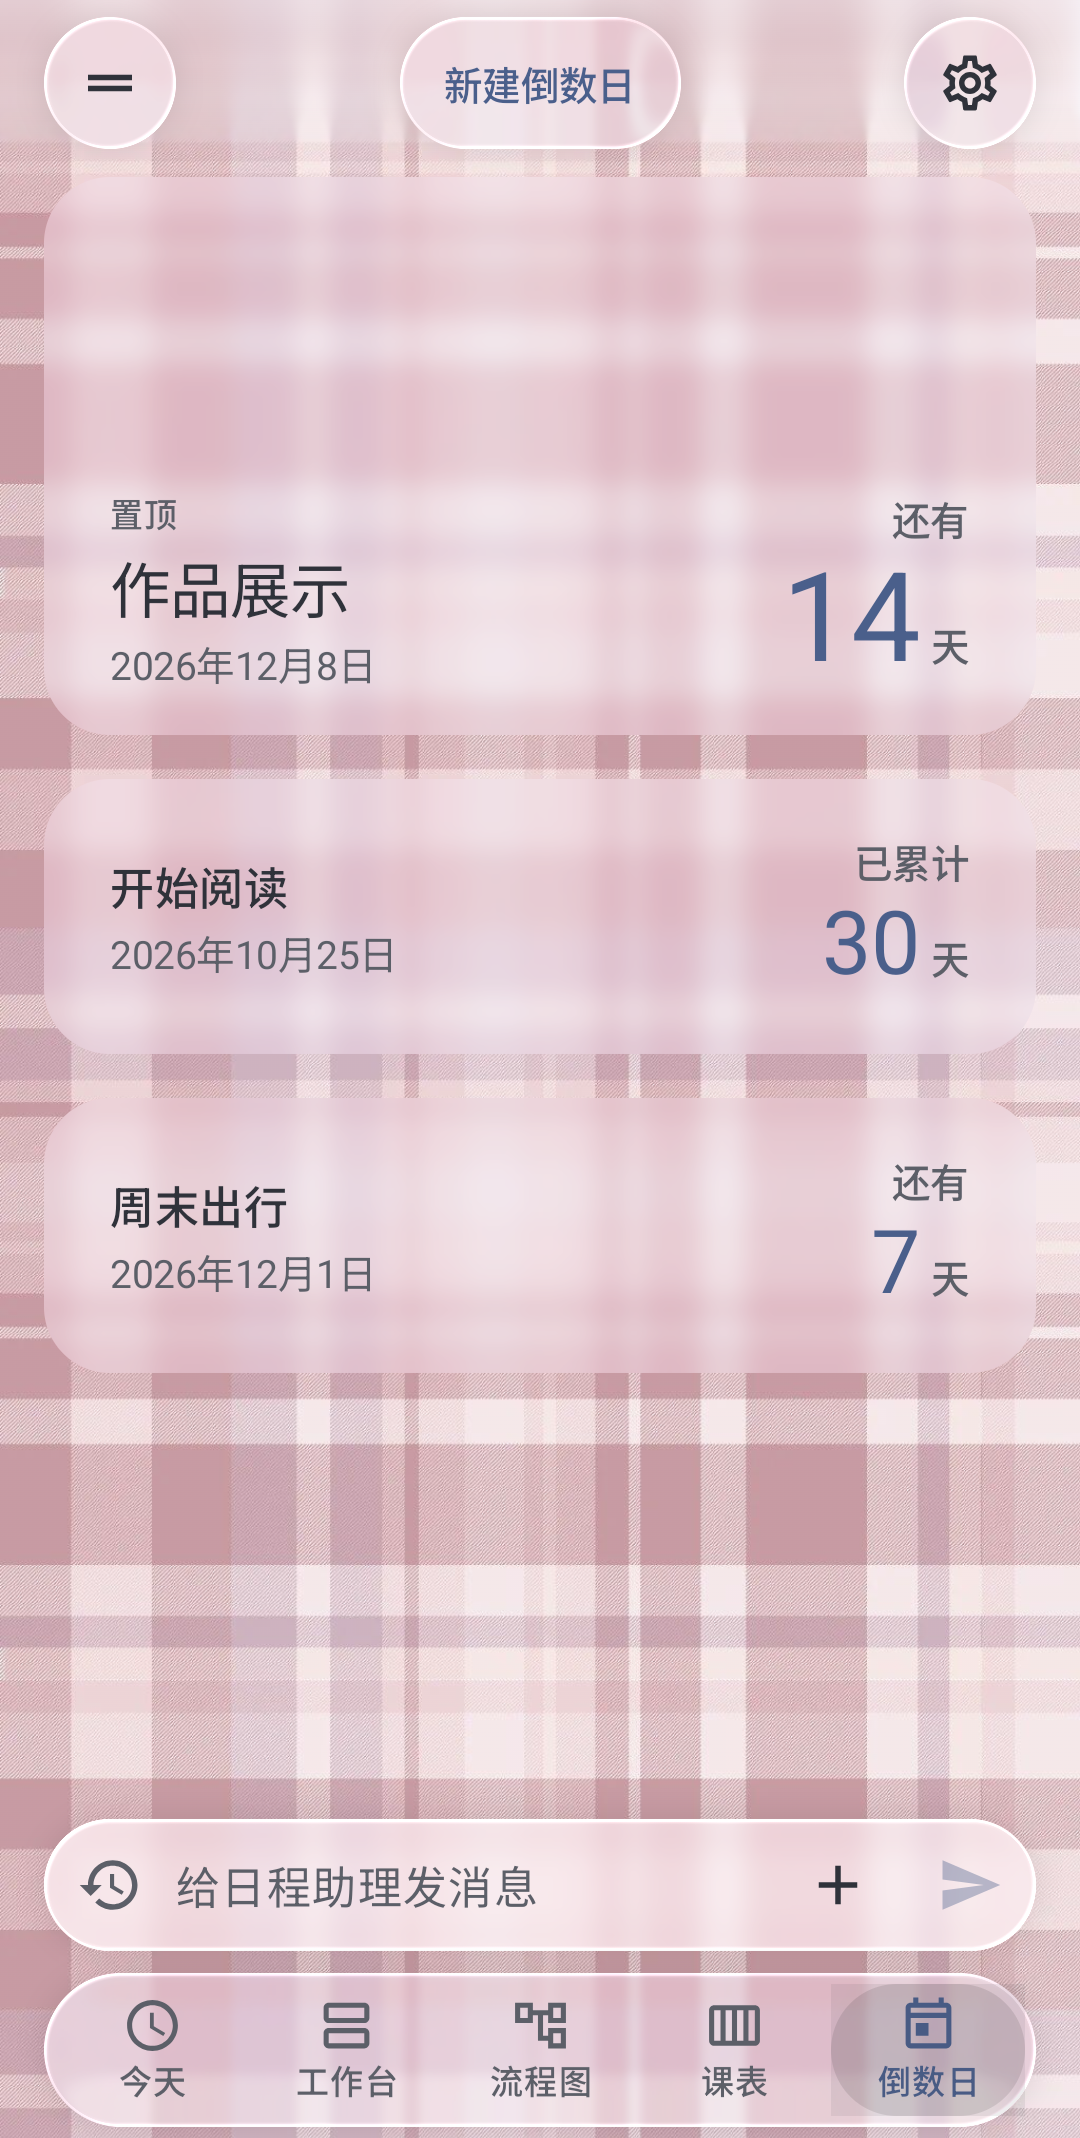
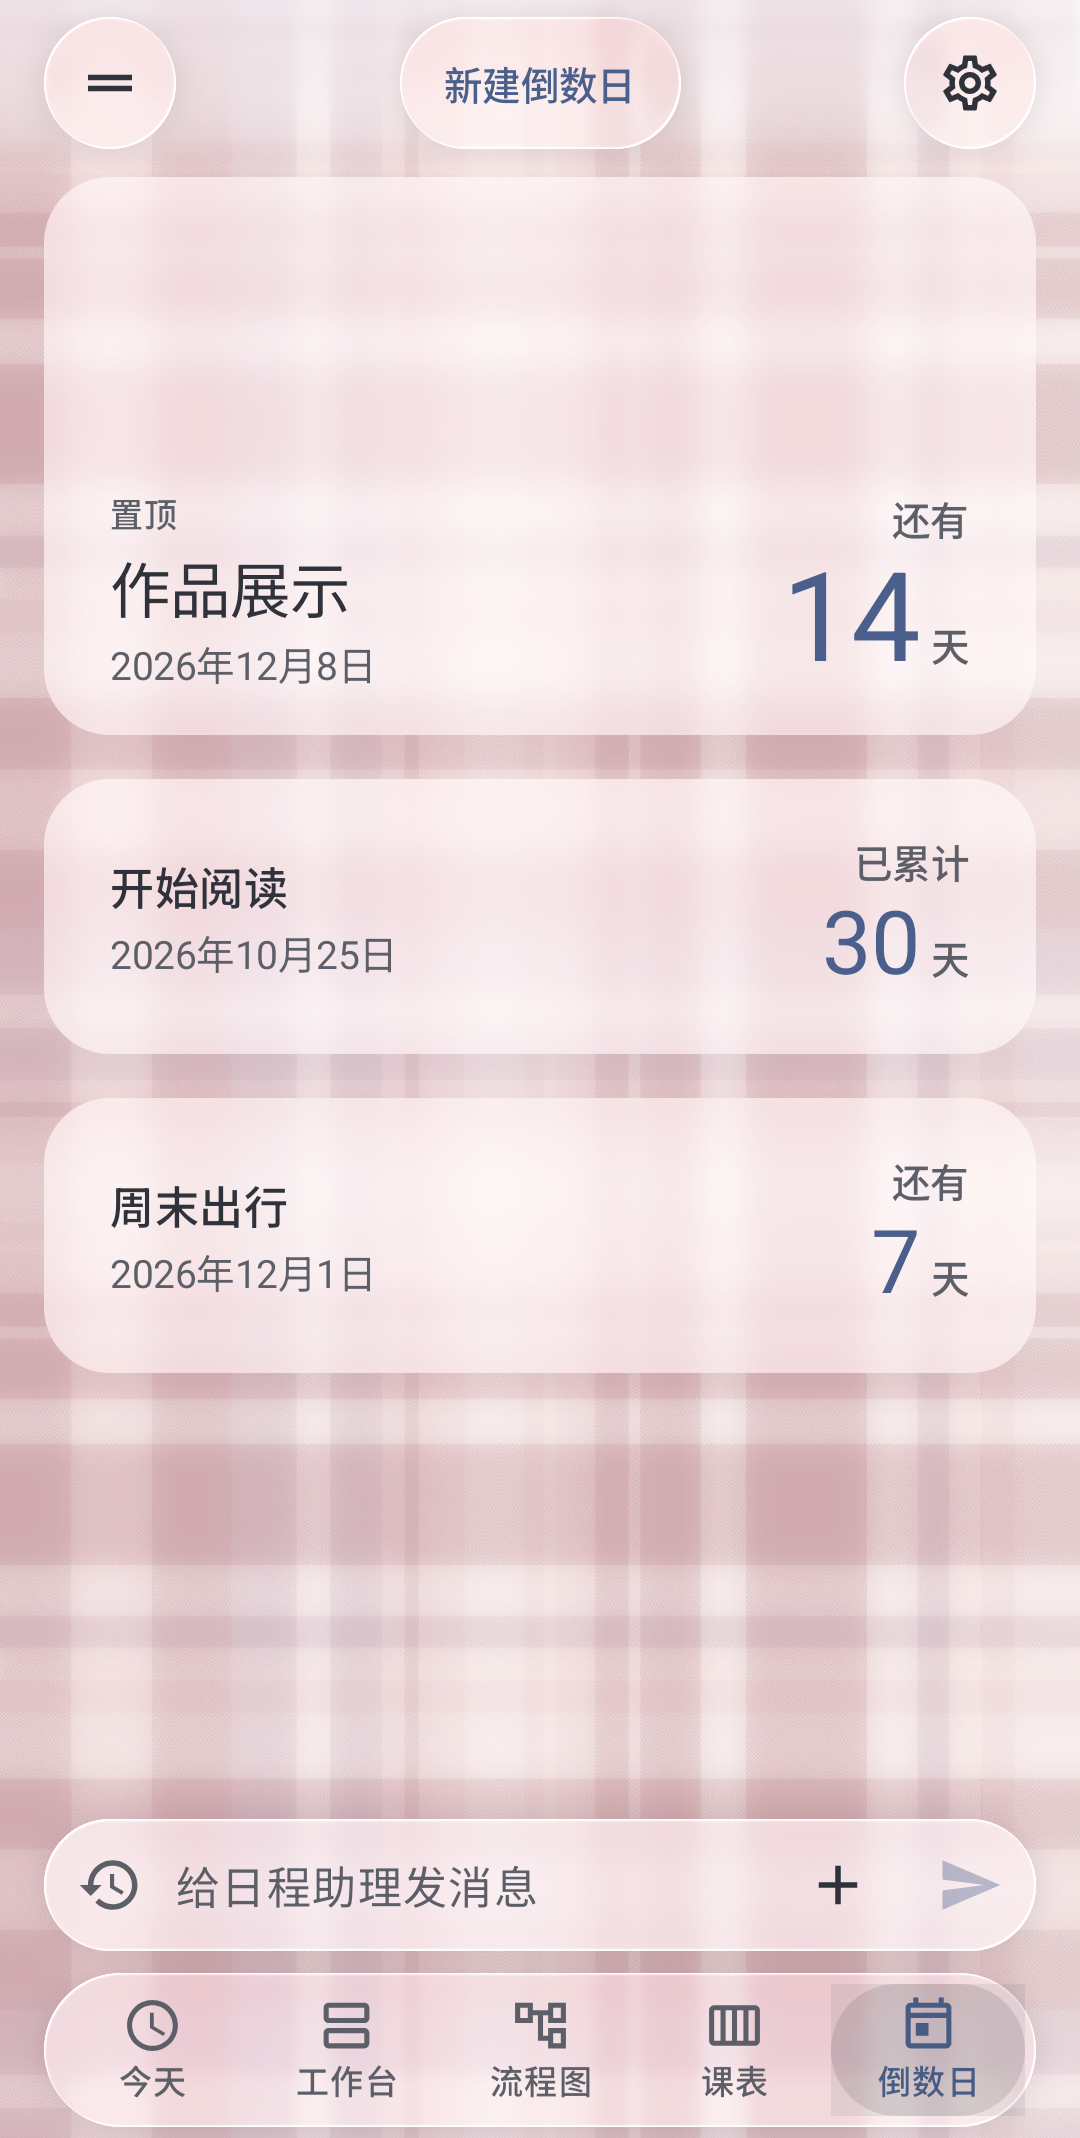
文档：更新 0.11.7 下载入口与六张原生截图
保持 README 的章节、图序和图注，标清已随包交付的备份、桌面组件与流程图操作。
在 API 37 使用相同示例和四张轮换壁纸拍摄，按实测窗口裁去系统栏，保留应用导航。

diff --git a/docs/guide.md b/docs/guide.md
@@ -2,13 +2,13 @@
 
 ## 数据与权限
 
-日程、备注、图片和对话历史保存在设备上。系统云备份与设备迁移已在 [Manifest](../app/src/main/AndroidManifest.xml) 和[数据提取规则](../app/src/main/res/xml/data_extraction_rules.xml) 中关闭。0.11.2 下载包没有完整导出；卸载前请核对自己使用的版本。
+日程、备注、图片和对话历史保存在设备上。系统云备份与设备迁移已在 [Manifest](../app/src/main/AndroidManifest.xml) 和[数据提取规则](../app/src/main/res/xml/data_extraction_rules.xml) 中关闭。0.11.7 可在「设置 → 备份与恢复」手动导出；卸载前请先保存需要保留的数据。
 
 手动规划不需要网络。HUB 在线登录会访问校方网站；向外部模型发送消息前可查看接收服务，跨页数据、备注和课程详情需另行选取。模型只能查询或提出更改，确认差异后才由手机写入。API Key 由 Android Keystore 中的密钥加密保存。
 
 通知权限用于显示日程提醒。未获精确闹钟权限时，提醒可能延迟。开机广播用于重排提醒；处理提醒时，唤醒锁短暂保持 CPU 运行。
 
-### 源码版的手动备份
+### 手动备份
 
 「设置 → 备份与恢复」通过 Android 文件选择器读写 ZIP。可选外观、今天、队列、栈、流程图、课表、倒数日、对话及附件、应用偏好、模型连接。**完整备份默认写入可读取的 API Key。** 仅存到可信位置；可取消「包含已配置的 API Key」，或取消整个连接分类。恢复后用目标设备的 Android Keystore 重新加密。未带密钥的连接只能保留目标设备上同一 HTTPS 来源的密钥。
 
@@ -38,7 +38,7 @@
 sdkmanager 'platform-tools' 'platforms;android-37.2' 'build-tools;37.0.0'
 ```
 
-使用仓库的 Gradle wrapper，无需另装 Gradle。0.11.0 使用 Gradle 9.6.0、AGP 9.5.0，Java target 为 17；编译和应用版本见 [`app/build.gradle.kts`](../app/build.gradle.kts)。复现公开包时先检出对应标签，普通版不需要联盟 SDK。运行与 [Android CI](../.github/workflows/android-ci.yml) 相同的检查：
+使用仓库的 Gradle wrapper，无需另装 Gradle。0.11.7 使用 Gradle 9.6.0、AGP 9.5.0，Java target 为 17；编译和应用版本见 [`app/build.gradle.kts`](../app/build.gradle.kts)。复现公开包时先检出对应标签，普通版不需要联盟 SDK。运行与 [Android CI](../.github/workflows/android-ci.yml) 相同的检查：
 
 ```sh
 ./gradlew --no-daemon --stacktrace :app:testDebugUnitTest :app:assemblePreview
@@ -55,7 +55,7 @@ sdkmanager 'platform-tools' 'platforms;android-37.2' 'build-tools;37.0.0'
 用 Android build-tools 检查 APK 的签名，例如：
 
 ```sh
-apksigner verify --verbose --print-certs StackLife-0.11.0-preview.apk
+apksigner verify --verbose --print-certs StackLife-0.11.7-preview.apk
 ```
 
[1 lines of base64/hex data omitted]

diff --git a/docs/roadmap.md b/docs/roadmap.md
@@ -4,7 +4,7 @@ StackLife 是用 Kotlin + Jetpack Compose 开发的、手机优先的原生 Andr
 
 **项目许可：** StackLife 采用 [GNU 通用公共许可证第 3 版或任何后续版本](../LICENSE)（`GPL-3.0-or-later`）。第三方代码与资源保留[各自的许可和署名](../app/src/main/assets/licenses/)。
 
-**当前候选版本：v0.11.2（38），Room v13。** [壁纸、卡片与倒数日](#v0112-壁纸卡片与倒数日)不需要数据迁移。[首次使用示例](#v0110-首次使用示例)只由新用户在引导中确认创建，升级不填充日程。M1–M6 是历史契约；排程和图节点以[排程与链接升级](#v01012-排程链接倒数日与外观)为准。普通包不含联盟 SDK。
+**当前候选版本：v0.11.7（43），Room v17。** 0.11.2 之后加入分类备份、桌面组件和工作台撤回；最近的[返回材质、时间轴与流程图改动](#0116-返回材质磨砂与时间轴)已进入测试渠道候选。0.11.7 尚无完整的固定真机 120 Hz 帧预算结果。[首次使用示例](#v0110-首次使用示例)只由新用户在引导中确认创建，升级不填充日程。M1–M6 是历史契约；排程和图节点以[排程与链接升级](#v01012-排程链接倒数日与外观)为准。普通包不含联盟 SDK。
 
 ## 起点与产品决定
 
